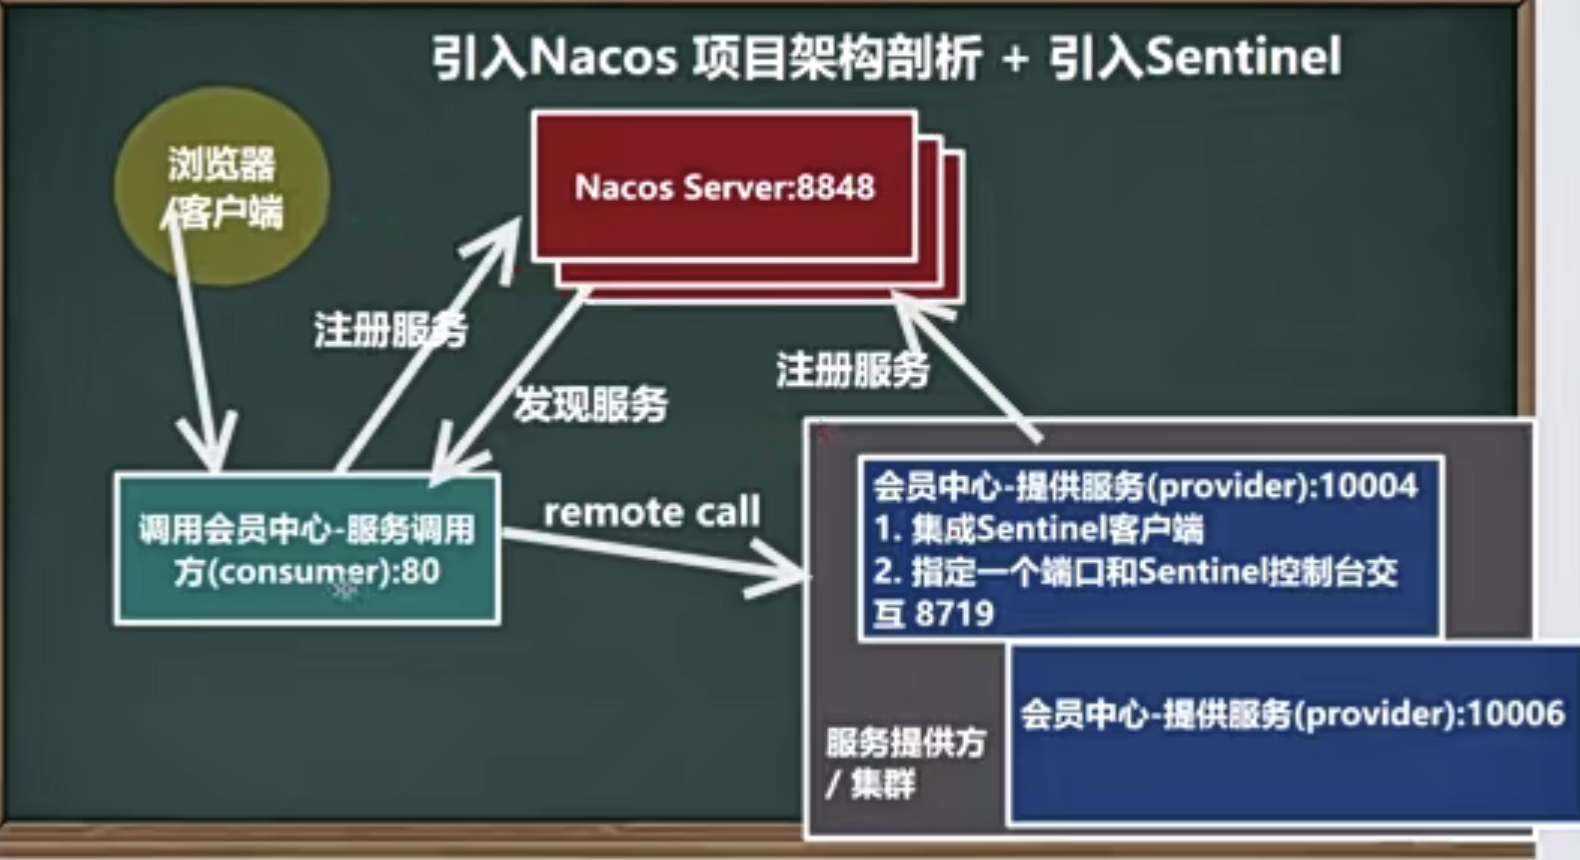
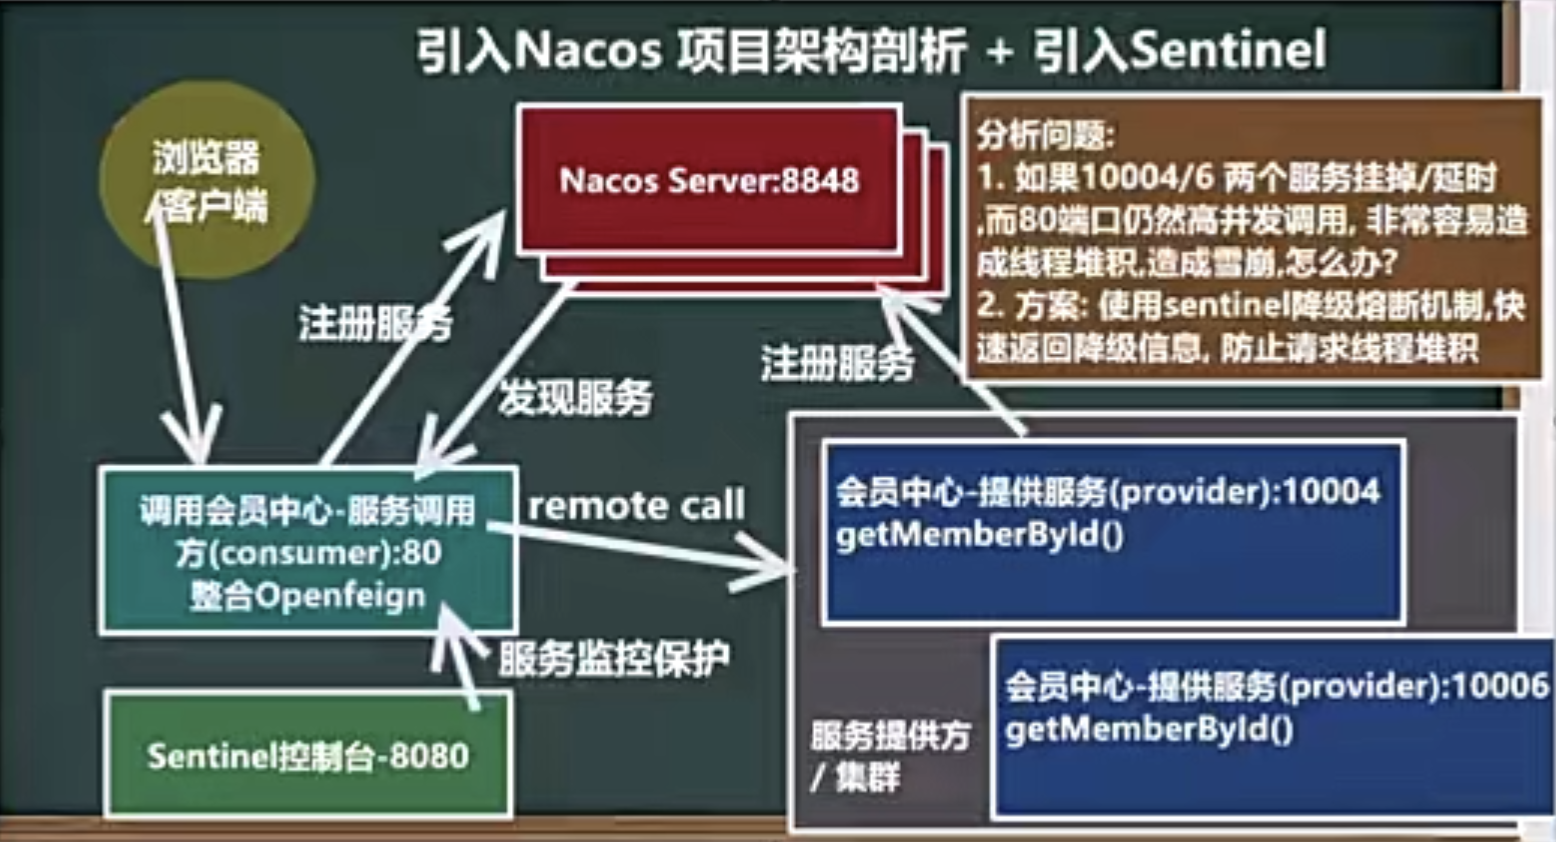
为member-service-nacos-consumer-80添加Sentinel

diff --git a/README.md b/README.md
@@ -837,6 +837,14 @@ Spring Cloud Gateway基于Spring Framework（支持Spring WebFlux），Project R
 
 通过消费微服务consumer，使用OpenFeign远程调用访问服务提供微服务，并通过Sentinel对远程调用进行熔断降级
 
+如果10004/10006，两个服务挂掉/延时，而80端口仍然高并发调用，非常容易造成线程堆积，容易导致系统雪崩
+
+解决方案：使用Sentinel的熔断降级机制，快速返回降级信息，防止线程堆积
+
+使用OpenFeign + Sentinel后，如果10004的业务逻辑中添加休眠2s的代码，则会自动调用相应时间更短的10006的服务
+
+注：OpenFeign默认超时时间为1s
+
 
 
 
